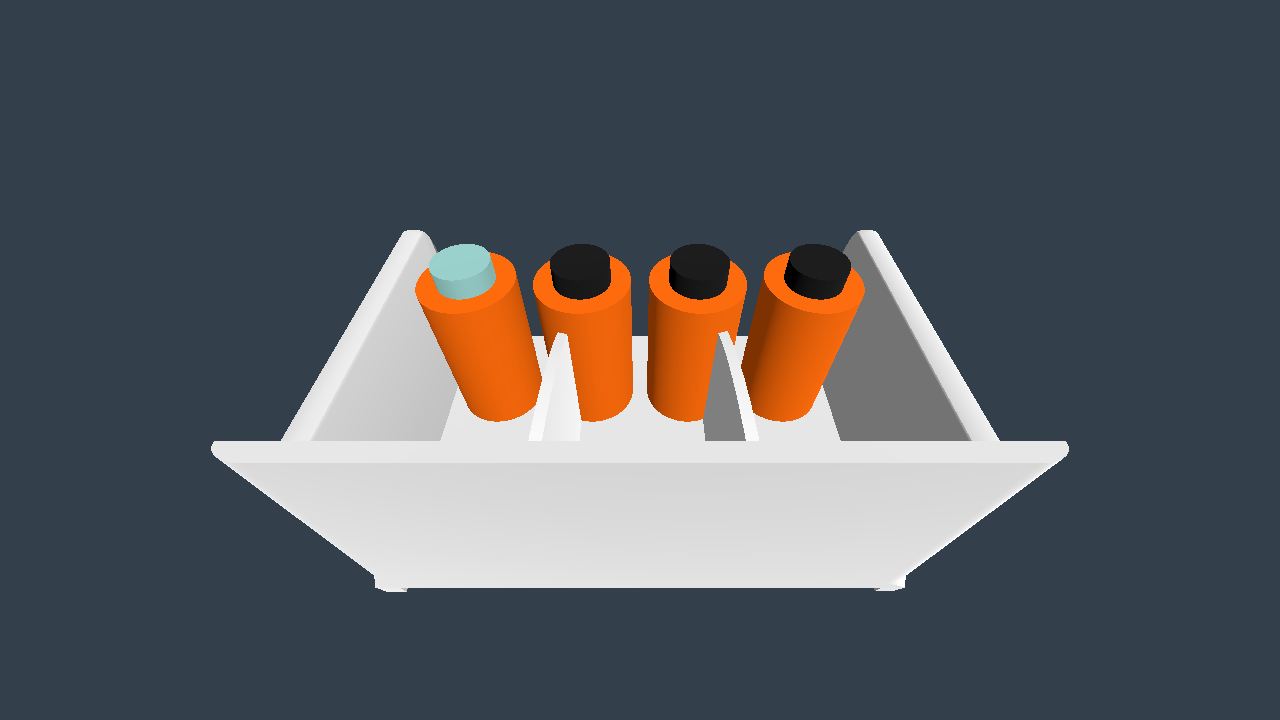
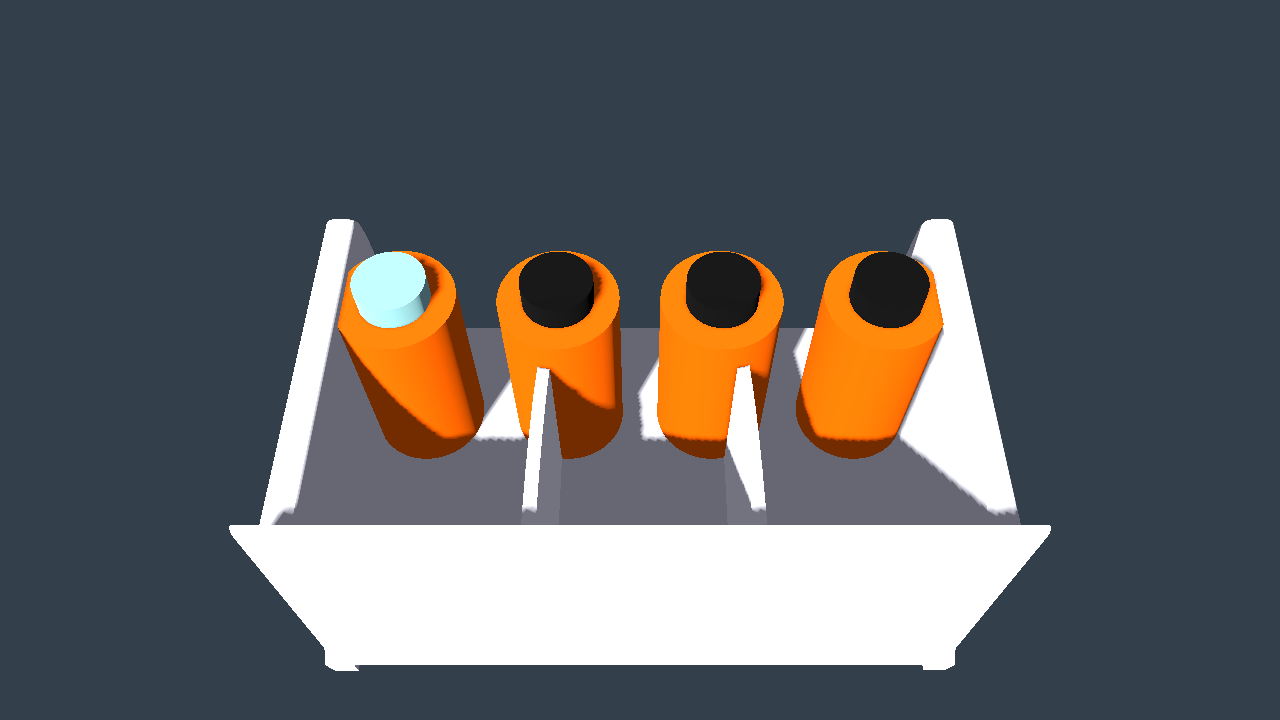
PUL-028: aplicar revisión

diff --git a/docs/evidence/PUL-028/README.md b/docs/evidence/PUL-028/README.md
@@ -2,7 +2,8 @@
 
 ## Resumen de cambios
 1. **`SeasoningData` (`godot/resources/seasoning_data.gd`)**:
-   - Incorporado tipo `OIL` (y alias `ACEITE = 3`) al enum `SeasoningType`.
+   - Incorporado tipo `OIL` al enum `SeasoningType`.
+   - Regla única de identidad `same_as(other: SeasoningData) -> bool` compartida por toda la base de código.
    - Añadida propiedad `exclusivity_group: StringName = &""` para grupos de exclusividad mutua.
    - Añadida propiedad `icon: Texture2D` (vacía hasta PUL-031).
 2. **Datos de condimentos (`godot/data/seasonings/`)**:
@@ -10,16 +11,17 @@
    - `hot_paprika.tres`: asignado `exclusivity_group = &"paprika"`.
    - `oil.tres`: creado con tipo `OIL` (3), `display_name = "Aceite"`, `translation_key = "SEASONING_OIL"`.
 3. **Caja (`godot/entities/items/box.gd`)**:
-   - `has_seasoning`: comprueba pertenencia por instancia o tipo.
+   - `has_seasoning`: comprueba pertenencia mediante `SeasoningData.same_as`.
    - `has_seasoning_in_group(group: StringName)`: comprueba si la caja ya contiene un condimento del grupo de exclusividad.
    - `can_season(seasoning: SeasoningData)`: verifica que la caja esté llena, no tenga ya el condimento (idempotencia) y no tenga otro condimento del mismo grupo de exclusividad (exclusión mutua entre pimentón dulce y picante).
    - `_season`: aplica condimento solo si `can_season` es verdadero.
+   - Eliminado método no utilizado `get_seasonings()`.
 4. **Validación exacta (`godot/core/order_validator.gd`)**:
    - Adiós a la regla de inclusión parcial ⊆ de M0 (B15).
-   - Comprobación de coincidencia exacta del conjunto de condimentos: tamaño igual y todos los condimentos pedidos presentes en la caja sin condimentos extra.
+   - Comprobación de coincidencia exacta del conjunto de condimentos: tamaño igual y todos los condimentos pedidos presentes en la caja sin condimentos extra, usando `SeasoningData.same_as`.
 5. **Estantería de especias (`godot/entities/stations/spice_shelf.tscn`)**:
    - Añadido 4º slot `OilSlot` con `res://data/seasonings/oil.tres`.
-   - Redistribución equidistante de los 4 slots: SaltSlot (-0.6), PaprikaSlot (-0.2), HotPaprikaSlot (0.2), OilSlot (0.6).
+   - Redistribución equidistante de los 4 slots separados 0,45 m para evitar solapamiento entre sus colisiones (0,43 m): SaltSlot (-0.675), PaprikaSlot (-0.225), HotPaprikaSlot (0.225), OilSlot (0.675).
 
 ## Criterios de aceptación
 
@@ -47,8 +49,8 @@
   - `test_ac3_spice_shelf_contract`: contrato de interacción limpio.
 - `test_parity_smoke.gd`:
   - `SPICE_JARS = 4` verificado en flujo completo de 20 entregas.
-- Captura visual: `ac3-spice-shelf-4-slots.png` mostrando los 4 botes alineados en el mueble.
+- Captura visual: `ac3-spice-shelf-4-slots.png` renovada mostrando los 4 botes alineados en el mueble con separación de 0,45 m.
 
 ### AC4 — Verificación y `check_owns`
-- `tools/verify.sh` en verde: 392 tests pasando, 0 fallos, smoke run OK.
+- `tools/verify.sh` en verde: 393 tests pasando, 0 fallos, smoke run OK.
 - `tools/check_owns.py` limpio: 0 cambios fuera de `owns`.

diff --git a/docs/backlog/PUL-028-aceite-y-validacion-exacta.md b/docs/backlog/PUL-028-aceite-y-validacion-exacta.md
@@ -47,7 +47,7 @@ M1, feature `condimentacion.md` (AC1–AC4) y `entrega-y-puntuacion.md` AC3 (coi
 ## Evidence
 - Informe detallado: `docs/evidence/PUL-028/README.md`.
 - Captura visual de la estantería con 4 slots: `docs/evidence/PUL-028/ac3-spice-shelf-4-slots.png`.
-- Tests GUT: 392 tests pasando, 0 fallos (cobertura unitaria e integración de AC1, AC2 y AC3).
+- Tests GUT: 393 tests pasando, 0 fallos (cobertura unitaria e integración de AC1, AC2 y AC3).
 - Smoke run: 120 frames sin errores.
 - `tools/verify.sh`: ✓ verify OK.
 - `tools/check_owns.py`: limpio (todas las rutas dentro de `owns`).
